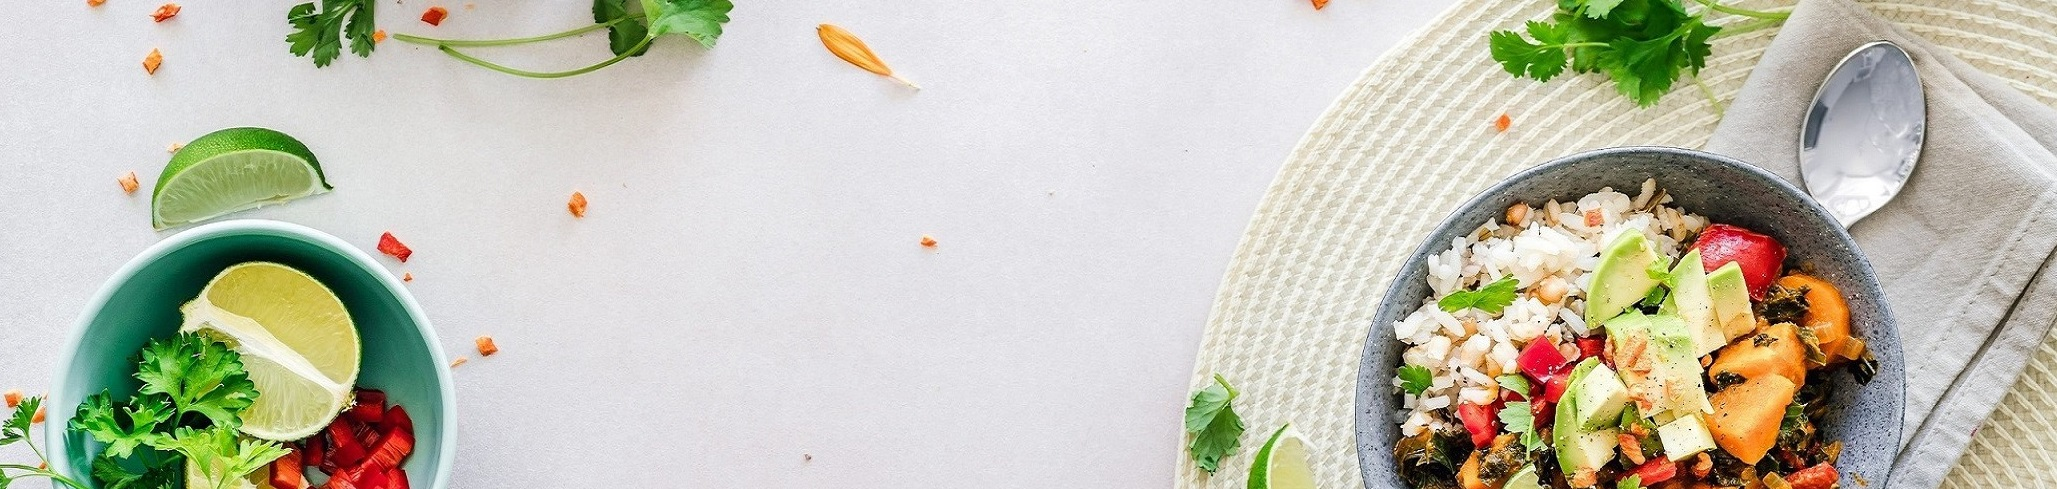
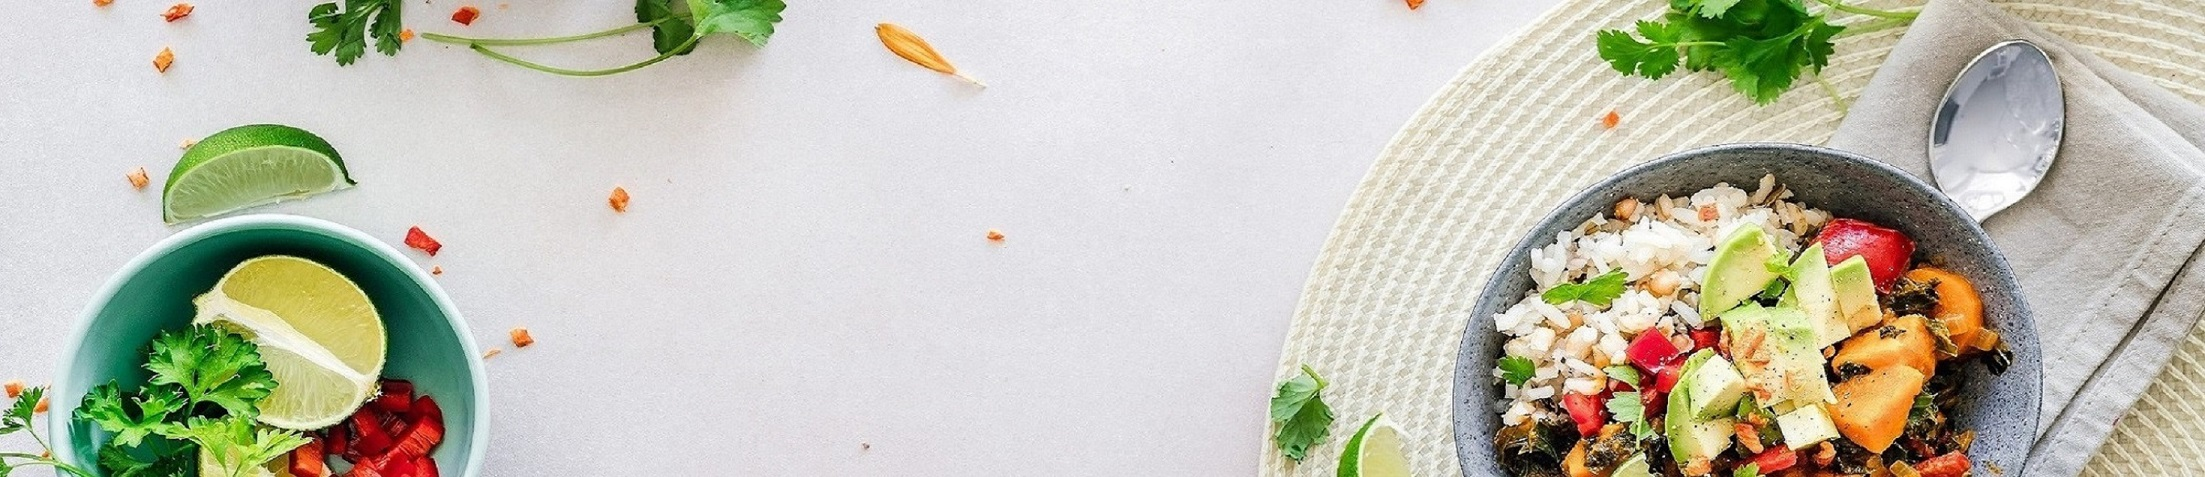
메인 페이지 정리, 게시물 목록 3*3으로 정리

diff --git a/main/templates/main/list.html b/main/templates/main/list.html
@@ -2,18 +2,13 @@
 {% load static %}
 {% block content %}
 
-<style>
-
-</style>
-
 <section id="portfolio-details"  class="portfolio-details">
     
     <header class="py-5">
         <div class="container px-lg-5">
             <div class="p-4 p-lg-5 bg-light rounded-3 text-center">
                 <div class="m-4 m-lg-5">
-                    <h1 class="display-5 fw-bold">재료 입력하기</h1><br><br>
-                    <p class="fs-4" >식재료 histroy<br></p><br>
+                    <h1 class="display-5 fw-bold">식재료 입력하기</h1><br><br>
                     
                 {% if user.is_authenticated %}
                     <a class="btn btn-primary btn-lg" href="{% url 'main:new_story' %}" style="background-color:#fe7f5d; border-color:white;">식재료 입력하기</a>
@@ -28,25 +23,23 @@
             </div>
         </div>
     </header>
-    
-    <div class="container" style="margin-top : 5%;  ">
 
+    <div class="container px-lg-5" style="margin-top :5%;">
 
-        {%for story in stories%}
-           
-            
-                <div class="portfolio-info" >
-                    <h3> <a style="color:black;" href="{% url 'main:detail' story.id %}">{{story.title}}</a></h3>
+     {%for story in stories%}
+
+        <div class="portfolio-info px-lg-5" style="margin:5px; width:395px; display:inline-block">
                     <ul>
+                        <h3> <a style="color:black;" href="{% url 'main:detail' story.id %}">{{story.title}}</a></h3>
                         <li><strong>Writer</strong> : {{story.writer}}</li>
                         <li><strong>Body</strong> : {{story.body|truncatechars:7}}</li>
                         <li><strong>생성시간</strong> : {{story.created_at}}</li>
                         <li><strong>수정시간</strong> : {{story.updated_at}}</li>
                     </ul>
-                </div>
+         </div>
            
            
-        {%endfor%}
+     {%endfor%}
 
         
 

diff --git a/main/templates/main/detail.html b/main/templates/main/detail.html
@@ -2,6 +2,7 @@
 {% load static %}
 {% block content %}
 <!-- ======= Portfolio Details Section ======= -->
+
 <section id="portfolio-details" class="portfolio-details">
     <div class="container">
 
@@ -38,20 +39,19 @@
                 <div class="portfolio-info">
                     <h3>{{story.title}}</h3>
                     <ul>
+                        <li><strong>내용</strong> : {{story.body}}</li>
                         <li><strong>Writer</strong> : {{story.writer}}</li>
-                        <li><strong>Body</strong> : {{story.body}}</li>
                         <li><strong>생성시간</strong> : {{story.created_at}}</li>
                         <li><strong>수정시간</strong> : {{story.updated_at}}</li>
                     </ul>
                     <br>
-                    <h4>{{story.ingredients}}</h4>
         
                     <ul>
                     {% if story.writer == request.user %}
-                        <a class="btn btn-dark" href="{% url 'main:edit_story' story.id %}">수정하기</a>
-                        <a class="btn btn-dark" href="{% url 'main:delete' story.id %}">삭제하기</a>
-                        <a class="btn btn-dark" href="{% url 'main:list' %}">목록</a>
-                        <a class="btn btn-dark" href="{% url 'recipe:matching' request.user.id%}">레시피</a>
+                        <a class="btn btn-dark btn-sm" href="{% url 'main:edit_story' story.id %}">수정하기</a>
+                        <a class="btn btn-dark btn-sm" href="{% url 'main:delete' story.id %}">삭제하기</a>
+                        <a class="btn btn-dark btn-sm" href="{% url 'main:list' %}">목록</a>
+                        <a class="btn btn-dark btn-sm" href="{% url 'recipe:matching' request.user.id%}">레시피</a>
                     {% endif%}
                     </ul>
                 </div>

diff --git a/disease/templates/index.html b/disease/templates/index.html
@@ -2,7 +2,15 @@
 {% load static %}
 {% block content %}
 
-<div><img src= "{% static 'img/main_image.jpg' %}" alt = "Main_Image" style="max-width: 100%; height: auto;" </div>
+<style>
+.img {
+  max-width: 100%;
+  height: auto !important;
+  display: block;
+}
+</style>
+
+<img src= "{% static 'img/main_image.jpg' %}" alt = "Main_Image" class="img">
 
 <section id="hero" class="d-flex flex-column justify-content">
   <style>
@@ -19,7 +27,7 @@
       <br>
         
       {% if user.is_authenticated %}
-      <button type="button"  class="btn" > <a href="{%url 'main:list' %}" > 입장하기</a></button> 
+      <button type="button"  class="btn" > <a href="{%url 'main:list' %}" > 서비스 시작</a></button>
       <button type="button"  class="btn"> <a href="{%url 'user:logout' %}" > 로그아웃</a></button>
       {% else %}
         

diff --git a/main/templates/main/new_story.html b/main/templates/main/new_story.html
@@ -13,11 +13,20 @@
   margin-bottom: 30px;
   font-weight: bold;
 }
+.container{
+        margin: auto;
+        width: 50%;
+        background: white;
+        padding: 50px;
+        vertical-align: middle;
+}
 </style>
+
     <section id="portfolio-details" class="portfolio-details">
         <div class="container">
         <form action="{%url 'main:create'%}" method="post" enctype="multipart/form-data">
             {%csrf_token%}
+            <h4 style="margin:0; padding: 10px 0; font-weight: bold; font-size: 23px">식재료 이미지 업로드하기 </h4><br>
             <p>제목 : <input type="text" name="title" required></p>
             <p>사진 : <input type="file" name="image"></p>
             <p>내용 : <textarea style="width: 100%;" type="text" name="body" id="" cols="50" rows="10"

diff --git a/main/templates/main/edit_story.html b/main/templates/main/edit_story.html
@@ -13,6 +13,14 @@
   margin-bottom: 30px;
   font-weight: bold;
 }
+.container{
+        margin: auto;
+        width: 50%;
+        background: white;
+        padding: 50px;
+        vertical-align: middle;
+}
+
 </style>
     <section id="portfolio-details" class="portfolio-details">
     <div class="container">

diff --git a/disease/templates/base.html b/disease/templates/base.html
@@ -6,7 +6,7 @@
   <meta charset="utf-8">
   <meta content="width=device-width, initial-scale=1.0" name="viewport">
 
-  <title>뿌뿌</title>
+  <title>🥗만성질환을 고려한 식단 추천!🥩 - 1석5조</title>
   <meta content="" name="description">
   <meta content="" name="keywords">
 
